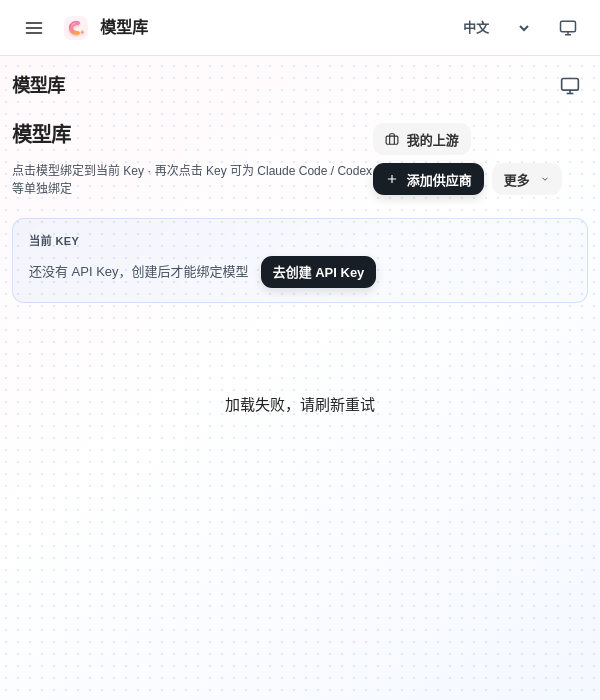
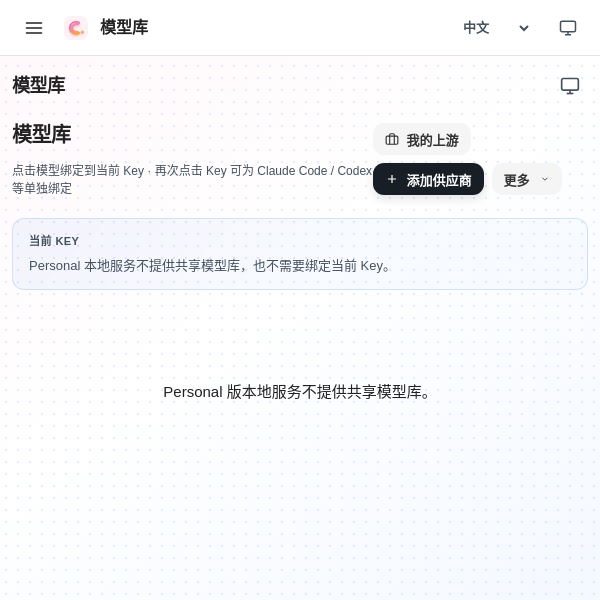
fix: finish isolated desktop-local server flow

diff --git a/src/server-manager.js b/src/server-manager.js
@@ -20,21 +20,30 @@ function runAsPostgres(command, args, options = {}) {
 async function startIsolatedPostgres(userData, host = '127.0.0.1') {
   const postgresUid = Number(execFileSync('id', ['-u', 'postgres'], { encoding: 'utf8' }).trim());
   const postgresGid = Number(execFileSync('id', ['-g', 'postgres'], { encoding: 'utf8' }).trim());
-  const dataDir = await fsp.mkdtemp(path.join(os.tmpdir(), 'crewrouter-postgres-'));
-  const logPath = path.join(dataDir, 'postgres.log');
+  const runtimeDir = path.join(userData, 'runtime');
+  const dataDir = path.join(runtimeDir, 'postgres');
+  const logPath = path.join(runtimeDir, 'postgres.log');
   const pgCtl = process.env.PG_CTL || 'pg_ctl';
   const psql = process.env.PSQL || 'psql';
-  const databaseName = `crewrouter_desktop_${crypto.randomBytes(8).toString('hex')}`;
+  const databaseName = `crewrouter_desktop_${crypto.createHash('sha256').update(path.resolve(userData)).digest('hex').slice(0, 16)}`;
   let stopped = false;
-  await fsp.chown(dataDir, postgresUid, postgresGid);
+  await fsp.mkdir(runtimeDir, { recursive: true });
+  // PostgreSQL runs as its own OS user and must traverse the Desktop runtime path.
+  await fsp.chmod(userData, 0o755);
+  await fsp.chmod(runtimeDir, 0o755);
+  if (!fs.existsSync(path.join(dataDir, 'PG_VERSION'))) {
+    await fsp.mkdir(dataDir, { recursive: true });
+    await fsp.chown(runtimeDir, postgresUid, postgresGid);
+    await fsp.chown(dataDir, postgresUid, postgresGid);
+    runAsPostgres(process.env.PG_INITDB || 'initdb', ['--no-locale', '--encoding=UTF8', '--auth=trust', '-D', dataDir]);
+  }
   const port = await findFreePort(host);
   try {
-    runAsPostgres(process.env.PG_INITDB || 'initdb', ['--no-locale', '--encoding=UTF8', '--auth=trust', '-D', dataDir]);
     runAsPostgres(pgCtl, ['-D', dataDir, '-o', `-h ${host} -p ${port}`, '-l', logPath, 'start']);
-    runAsPostgres(psql, ['-h', host, '-p', String(port), '-d', 'postgres', '-v', 'ON_ERROR_STOP=1', '-c', `CREATE DATABASE ${databaseName}`]);
+    const databases = execFileSync('runuser', ['-u', 'postgres', '--', psql, '-h', host, '-p', String(port), '-d', 'postgres', '-At', '-c', `SELECT 1 FROM pg_database WHERE datname = '${databaseName}'`], { encoding: 'utf8' });
+    if (!databases.trim()) runAsPostgres(psql, ['-h', host, '-p', String(port), '-d', 'postgres', '-v', 'ON_ERROR_STOP=1', '-c', `CREATE DATABASE ${databaseName}`]);
   } catch (error) {
     try { runAsPostgres(pgCtl, ['-D', dataDir, 'stop', '-m', 'immediate']); } catch {}
-    try { runAsPostgres('rm', ['-rf', '--', dataDir]); } catch {}
     throw error;
   }
   return {
@@ -45,10 +54,6 @@ async function startIsolatedPostgres(userData, host = '127.0.0.1') {
       if (stopped) return;
       stopped = true;
       try { runAsPostgres(pgCtl, ['-D', dataDir, 'stop', '-m', 'fast']); } catch {}
-      try { runAsPostgres('rm', ['-rf', '--', dataDir]); } catch (error) {
-        try { await fsp.chmod(dataDir, 0o700); await fsp.rm(dataDir, { recursive: true, force: true }); } catch {}
-        if (fs.existsSync(dataDir)) throw error;
-      }
     },
   };
 }
@@ -217,7 +222,7 @@ class LocalServerManager {
         if (this.child === child) { this.child = null; this.status.ready = false; this.status.exit = { code, signal }; }
       });
       if (opts.waitForReady !== false) {
-        await this.waitUntilReady(child, () => exitError);
+          await this.waitUntilReady(child, () => exitError);
         await this.ensureLocalPrincipalReady();
       }
       return this.getStatus();

diff --git a/scripts/test-local-server.js b/scripts/test-local-server.js
@@ -8,6 +8,19 @@ const { LocalServerManager, findFreePort, resolveServerEntry } = require('../src
 
 function fail(message) { throw new Error(message); }
 
+function request(url, headers = {}) {
+  return new Promise((resolve, reject) => {
+    const req = require('node:http').get(url, { headers }, (res) => {
+      let body = '';
+      res.setEncoding('utf8');
+      res.on('data', (chunk) => { body += chunk; });
+      res.on('end', () => resolve({ status: res.statusCode, headers: res.headers, body, json: () => JSON.parse(body) }));
+    });
+    req.setTimeout(5000, () => req.destroy(new Error('request timeout')));
+    req.once('error', reject);
+  });
+}
+
 (async () => {
   const packaged = process.argv.includes('--packaged');
   const root = process.env.CREWROUTER_SERVER_ROOT;
@@ -25,7 +38,28 @@ function fail(message) { throw new Error(message); }
   try {
     status = await manager.start();
     if (!status.ready || !status.version || !status.edition || !status.setup || typeof status.setup.needsSetup !== 'boolean') fail('Local server did not provide complete health metadata');
-    console.log(JSON.stringify({ ...status, resourceRoot: packaged ? resourceRoot : undefined }));
+    const base = status.baseUrl;
+    const [instance, setup, root, consolePage, me] = await Promise.all([
+      request(`${base}/api/instance`),
+      request(`${base}/api/setup/status`),
+      request(`${base}/`),
+      request(`${base}/console`),
+      request(`${base}/auth/me`),
+    ]);
+    const cookie = me.headers['set-cookie']?.map((value) => value.split(';', 1)[0]).join('; ');
+    const [apiKeys, models] = await Promise.all([
+      request(`${base}/api/user/api-keys`, cookie ? { cookie } : {}),
+      request(`${base}/v1/models`, cookie ? { cookie } : {}),
+    ]);
+    const metadata = instance.json();
+    if (metadata.runtime !== 'desktop-local' || metadata.edition !== 'personal' || metadata.auth?.required !== false || JSON.stringify(metadata.auth?.methods) !== JSON.stringify(['local'])) fail('Local instance metadata is incorrect');
+    if (setup.json().needsSetup !== false) fail('Local server incorrectly requires setup');
+    if (root.status !== 200 || root.headers.location?.includes('/setup')) fail('Local root entered setup flow');
+    if (consolePage.status !== 200 || consolePage.body.length < 100) fail('Local console did not load');
+    const meData = me.json();
+    if (me.status !== 200 || meData.needsPasswordSetup !== false || meData.local !== true) fail(`Local session was not initialized: status=${me.status} body=${me.body}`);
+    if (![200, 403].includes(apiKeys.status) || ![200, 401, 403].includes(models.status)) fail(`Local API bootstrap failed: apiKeys=${apiKeys.status} models=${models.status} me=${me.body}`);
+    console.log(JSON.stringify({ ...status, smoke: { root: root.status, console: consolePage.status, authMe: me.status, apiKeys: apiKeys.status, models: models.status }, resourceRoot: packaged ? resourceRoot : undefined }));
   } finally {
     await manager.stop();
     if (!status?.ready) {

diff --git a/scripts/stage-server.js b/scripts/stage-server.js
@@ -35,6 +35,21 @@ function copyDirectory(relative) {
   });
 }
 
+function patchDesktopPersonalModelLibrary() {
+  const appPath = path.join(destination, 'public', 'js', 'app.js');
+  if (!fs.existsSync(appPath)) throw new Error('Expected public/js/app.js in Server bundle');
+  const sourceText = fs.readFileSync(appPath, 'utf8');
+  const marker = "  async loadModelLibrary() {\n    try {\n      const libraryRes = await fetch('/api/user/model-library');";
+  const replacement = "  async loadModelLibrary() {\n    // Personal desktop-local servers intentionally do not expose the Team model-library API.\n    if (this.instance?.runtime === 'desktop-local' && this.instance?.edition === 'personal') {\n      const container = document.getElementById('modelLibraryContent');\n      if (container) {\n        setHTML(container, '<div class=\"empty-state\"><p>' + t('Personal 版本地服务不提供共享模型库。') + '</p></div>');\n      }\n      const binding = document.getElementById('modelLibraryBindingSummary');\n      if (binding) {\n        setHTML(binding, '<div class=\"binding-empty\"><span>' + t('Personal 本地服务不提供共享模型库，也不需要绑定当前 Key。') + '</span></div>');\n      }\n      const selector = document.getElementById('modelLibraryKeySelector');\n      if (selector) selector.style.display = 'none';\n      this._syncLibraryStickyVisibility(false);\n      return;\n    }\n    try {\n      const libraryRes = await fetch('/api/user/model-library');";
+  if (!sourceText.includes(marker)) throw new Error('Expected model-library loader was not found in staged app.js');
+  let patched = sourceText.replace(marker, replacement);
+  const instanceMarker = "      this.instance = window.CrewRouterEditionBadge\n        ? await window.CrewRouterEditionBadge.load()\n        : null;";
+  const instanceReplacement = "      const instancePayload = window.CrewRouterEditionBadge\n        ? await window.CrewRouterEditionBadge.load()\n        : null;\n      this.instance = instancePayload?.data && typeof instancePayload.data === 'object'\n        ? instancePayload.data\n        : instancePayload;";
+  if (!patched.includes(instanceMarker)) throw new Error('Expected instance bootstrap was not found in Server app.js');
+  patched = patched.replace(instanceMarker, instanceReplacement);
+  fs.writeFileSync(appPath, patched);
+}
+
 function assertSafeBundle() {
   const unsafe = [];
   function walk(dir) {
@@ -57,6 +72,7 @@ if (!fs.existsSync(source)) {
     fs.mkdirSync(destination, { recursive: true });
     files.forEach(copyFile);
     directories.forEach(copyDirectory);
+    patchDesktopPersonalModelLibrary();
     execFileSync(process.env.npm_execpath || 'npm', ['install', '--omit=dev', '--ignore-scripts', '--no-package-lock', '--no-audit', '--no-fund'], {
       cwd: destination,
       stdio: 'inherit',

diff --git a/src/main.js b/src/main.js
@@ -43,7 +43,12 @@ async function connect(url, { local = false, name = local ? '本地 CrewRouter' 
   state.currentTarget = new URL(profile.url).origin;
   state.mode = local ? 'local' : 'remote';
   state.instance = { ...profile, profile: { id: profile.id, name: profile.name, lastConnectedAt: profile.lastConnectedAt } };
-  await state.mainWindow.loadURL(state.currentTarget);
+  try {
+    await state.mainWindow.loadURL(state.currentTarget);
+  } catch (error) {
+    // A redirect can supersede the initial navigation after the target is already loaded.
+    if (error?.code !== 'ERR_ABORTED' && error?.errno !== -3) throw error;
+  }
   sendStatus({ message: `${profile.edition} Server 已连接`, ...currentStatus() });
   return currentStatus();
 }
